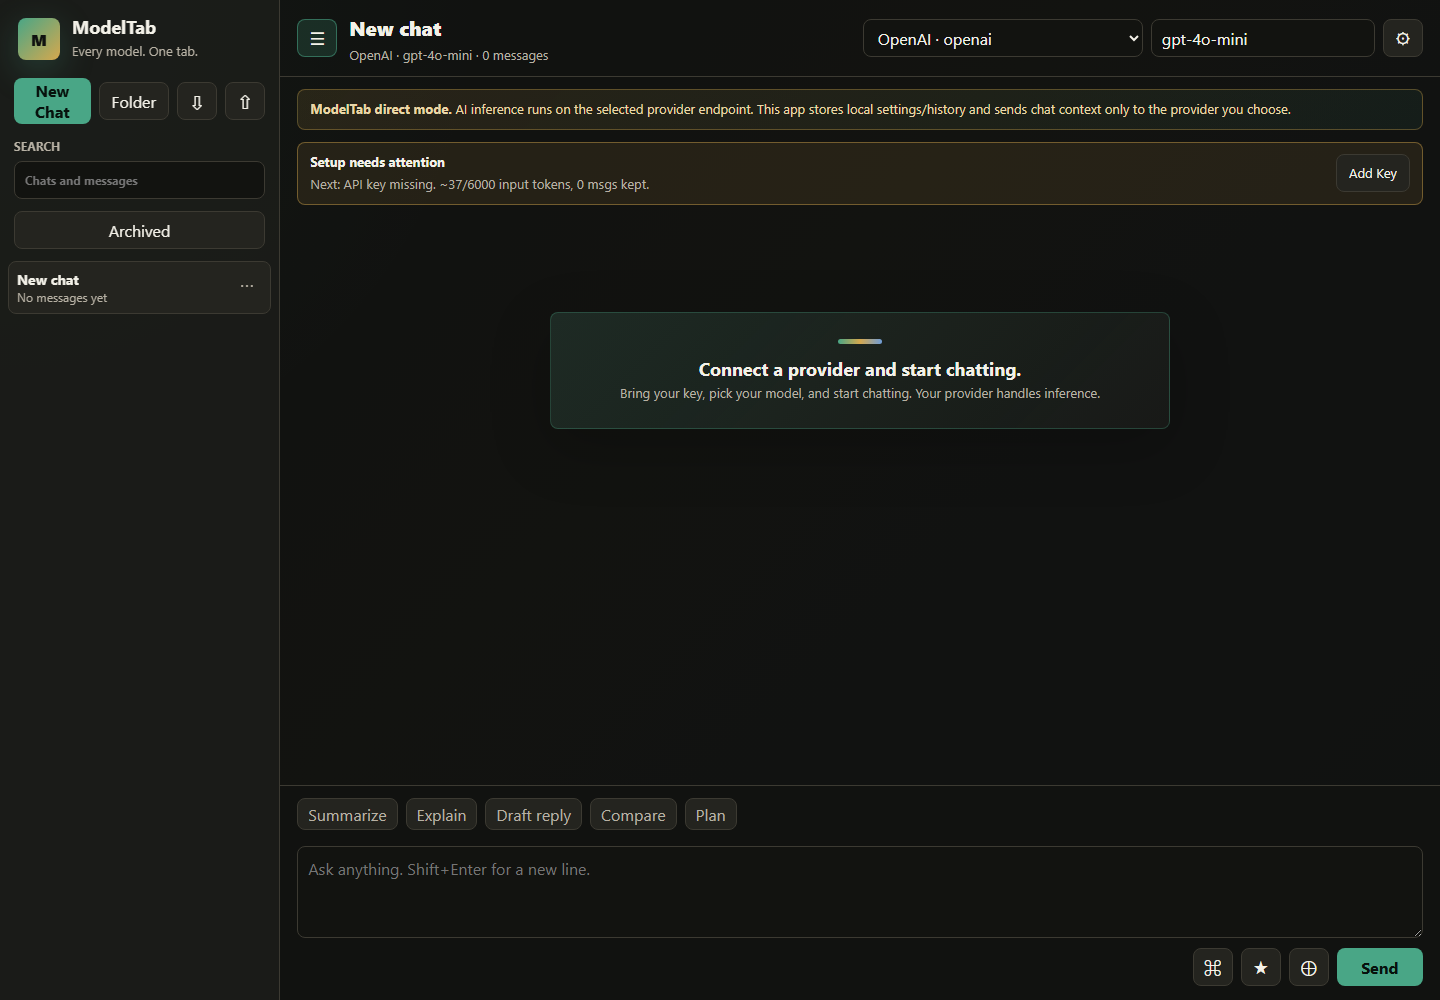
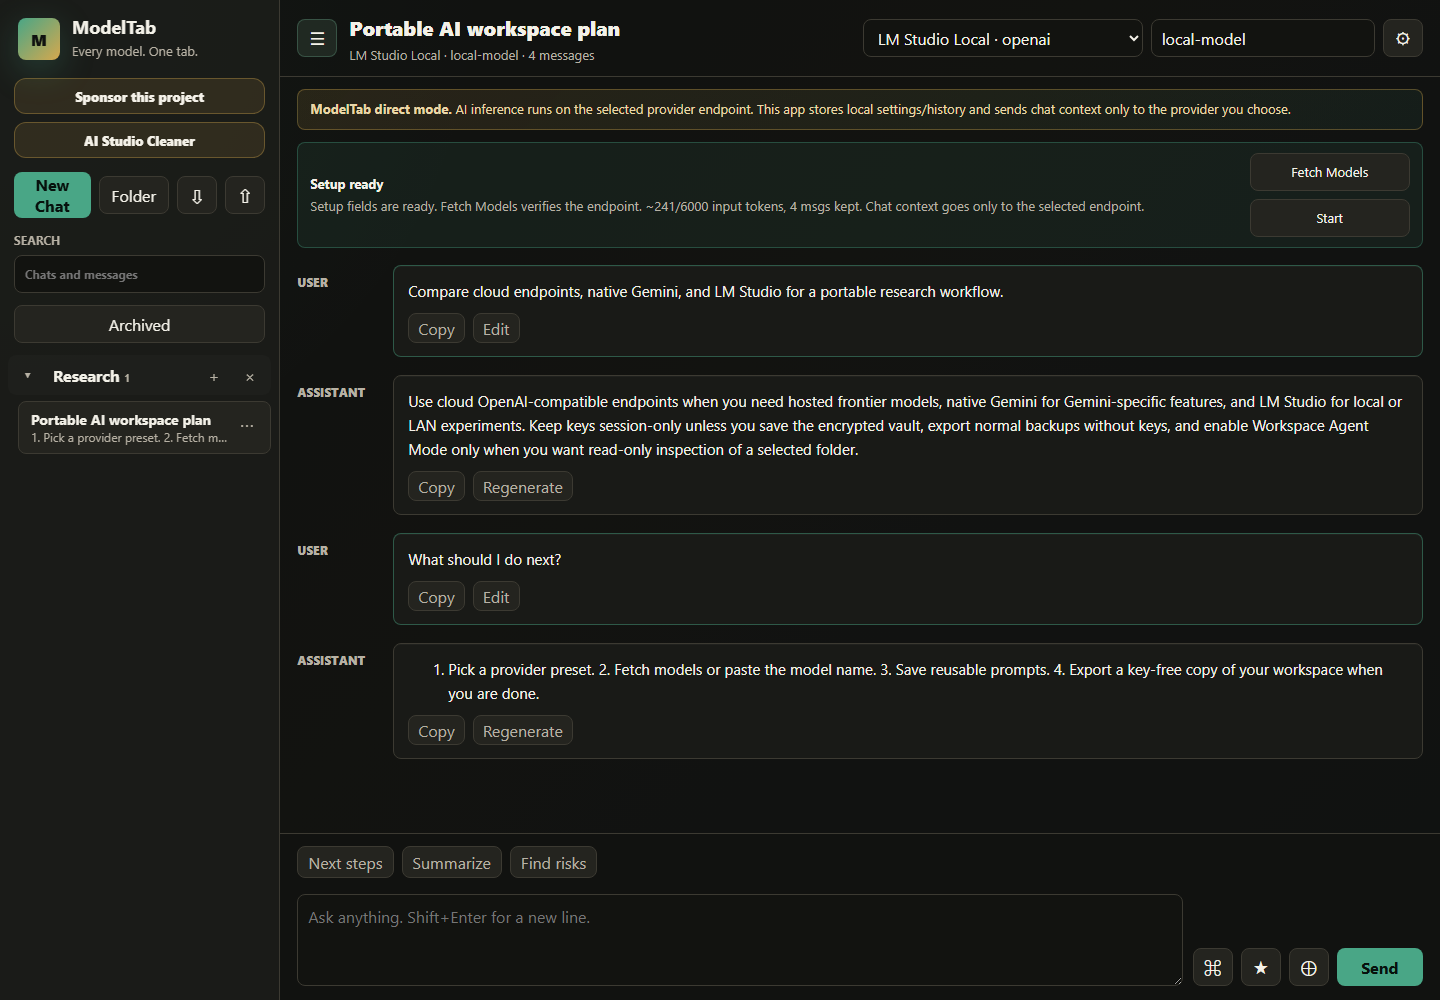
Polish PWA launch readiness

diff --git a/service-worker.js b/service-worker.js
@@ -1,4 +1,4 @@
-const CACHE_NAME = "modeltab-shell-v37";
+const CACHE_NAME = "modeltab-shell-v38";
 const SHELL = [
   "./",
   "./index.html",
@@ -6,7 +6,11 @@ const SHELL = [
   "./app.js",
   "./workspace-worker.js",
   "./manifest.webmanifest",
-  "./icons/icon.svg"
+  "./icons/icon.svg",
+  "./icons/icon-192.png",
+  "./icons/icon-512.png",
+  "./icons/apple-touch-icon.png",
+  "./screenshot.png"
 ];
 
 self.addEventListener("install", (event) => {

diff --git a/index.html b/index.html
@@ -12,6 +12,10 @@
       name="description"
       content="ModelTab is a no-install BYOK AI studio for OpenAI-compatible endpoints and Gemini API keys."
     />
+    <meta name="application-name" content="ModelTab" />
+    <meta name="apple-mobile-web-app-title" content="ModelTab" />
+    <meta name="apple-mobile-web-app-capable" content="yes" />
+    <meta name="apple-mobile-web-app-status-bar-style" content="black-translucent" />
     <link rel="canonical" href="https://shfqrkhn.github.io/ModelTab/" />
     <meta property="og:type" content="website" />
     <meta property="og:url" content="https://shfqrkhn.github.io/ModelTab/" />
@@ -24,6 +28,7 @@
     <meta name="twitter:image" content="https://shfqrkhn.github.io/ModelTab/screenshot.png" />
     <title>ModelTab</title>
     <link rel="icon" href="./icons/icon.svg" type="image/svg+xml" />
+    <link rel="apple-touch-icon" href="./icons/apple-touch-icon.png" />
     <link rel="stylesheet" href="./styles.css" />
   </head>
   <body>

diff --git a/README.md b/README.md
@@ -10,7 +10,7 @@ Every model. One tab.
 - **Portfolio Role:** Primary AI application.
 - **License:** MIT
 
-ModelTab is a no-install BYOK AI chat PWA for OpenAI-compatible endpoints and native Gemini API keys. It gives users a browser-based alternative to desktop AI chat tools: bring an endpoint, bring a key, and use the provider directly.
+ModelTab is a no-install, local-first BYOK AI chat PWA for OpenAI-compatible endpoints, local/LAN LLM servers, and native Gemini API keys. It gives users a browser-based alternative to desktop AI chat tools: bring an endpoint, bring a key when needed, and use the provider directly from the browser.
 
 `AI-Studio-Cleaner` now lives inside this repository at `tools/ai-studio-cleaner/` as the focused utility for cleaning Google AI Studio exports into readable Markdown.
 
@@ -20,7 +20,7 @@ ModelTab is a no-install BYOK AI chat PWA for OpenAI-compatible endpoints and na
 
 ## Why This Exists
 
-Many AI chat tools require a desktop install, a hosted account, or a single provider. ModelTab keeps the workflow portable: static files, direct provider calls, local settings, and no bundled backend.
+Many AI chat tools require a desktop install, a hosted account, or a single provider. ModelTab keeps the workflow portable: static files, direct provider calls, local settings, and no bundled backend. It can run from GitHub Pages, a self-hosted static folder, or an extracted zip opened through `index.html`.
 
 ## What It Does
 
@@ -33,16 +33,16 @@ Many AI chat tools require a desktop install, a hosted account, or a single prov
 
 ## Quick Start
 
-1. Open the live demo or download the repository and open `index.html`.
-2. Select or add a provider profile.
-3. Enter base URL, model, and API key if the endpoint requires one.
+1. Open the live demo, self-host the static files, or download the repository zip and open `index.html`.
+2. Pick a preset for an OpenAI-compatible cloud endpoint, native Gemini, or a local/LAN server.
+3. Enter base URL, model, and API key only if the endpoint requires one. Direct browser calls require the selected endpoint to allow browser CORS requests; some cloud providers block static-site browser calls.
 4. For LM Studio browser use, start the local server with CORS enabled:
 
    ```powershell
    lms server start --cors --port 1234
    ```
 
-5. Chat, save prompts, organize conversations, and export or back up local data.
+5. Chat, save prompts, organize conversations, install the PWA on HTTPS/localhost when useful, and export or back up local data.
 
 AI Studio export cleanup:
 